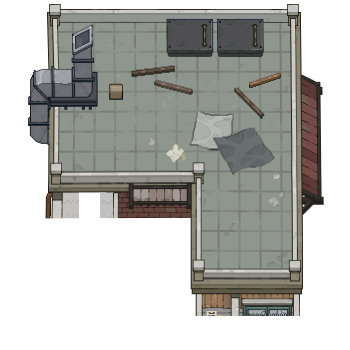
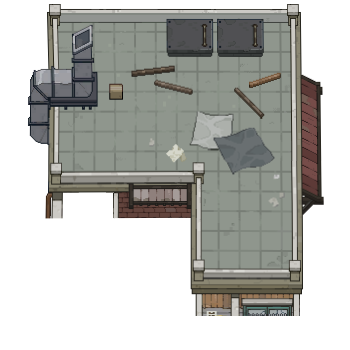
[LMG] 벽
어찌어찌 된 듯 테스팅 부탁

Changed region(s): [[0.2857, 0.5429, 0.3429, 0.6286], [0.1714, 0.5429, 0.2286, 0.6286]]

diff --git a/Zelter23Day/01_WinMain/HousingObject.h b/Zelter23Day/01_WinMain/HousingObject.h
@@ -16,6 +16,7 @@ class Player;
 class HousingObject : public GameObject
 {
 	Image* mImage;
+	Image* mImage2;
 	int mThick;
 	int mIndexX;
 	int mIndexY;
